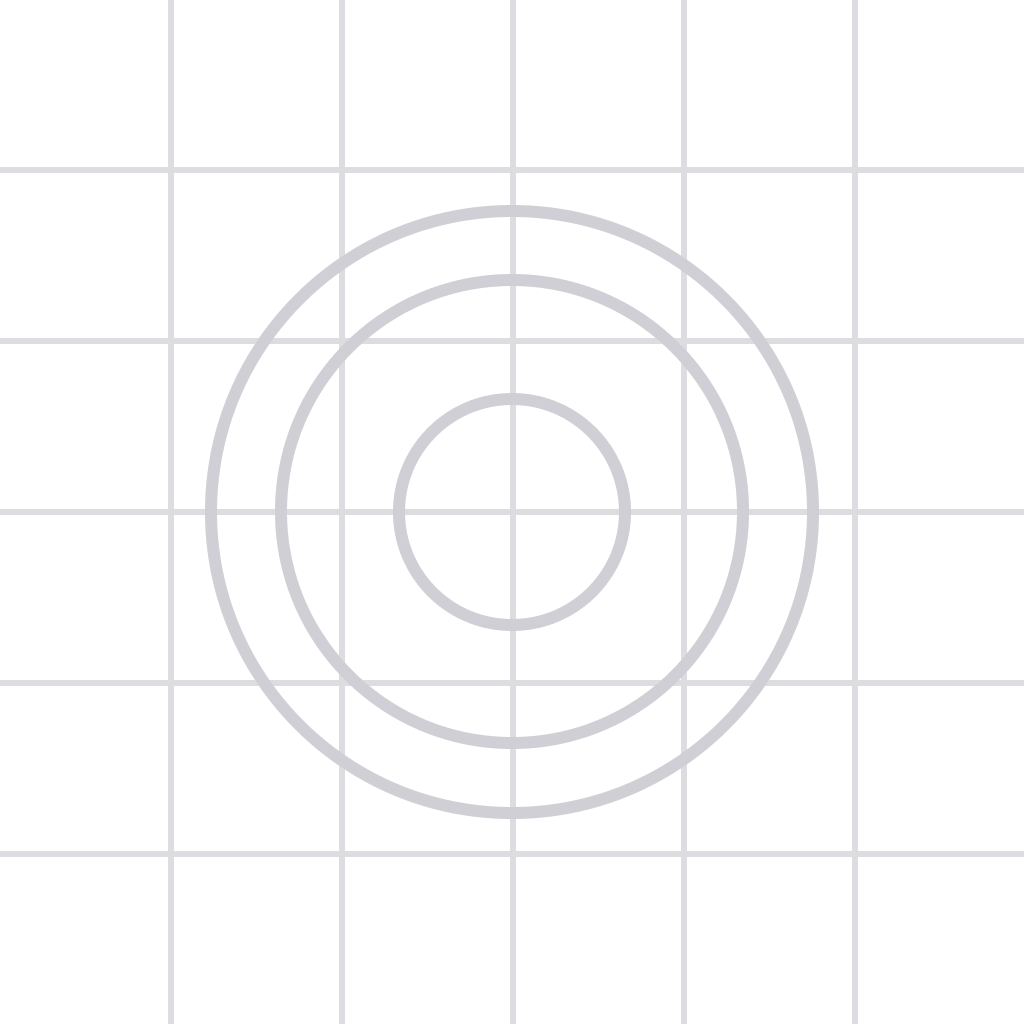
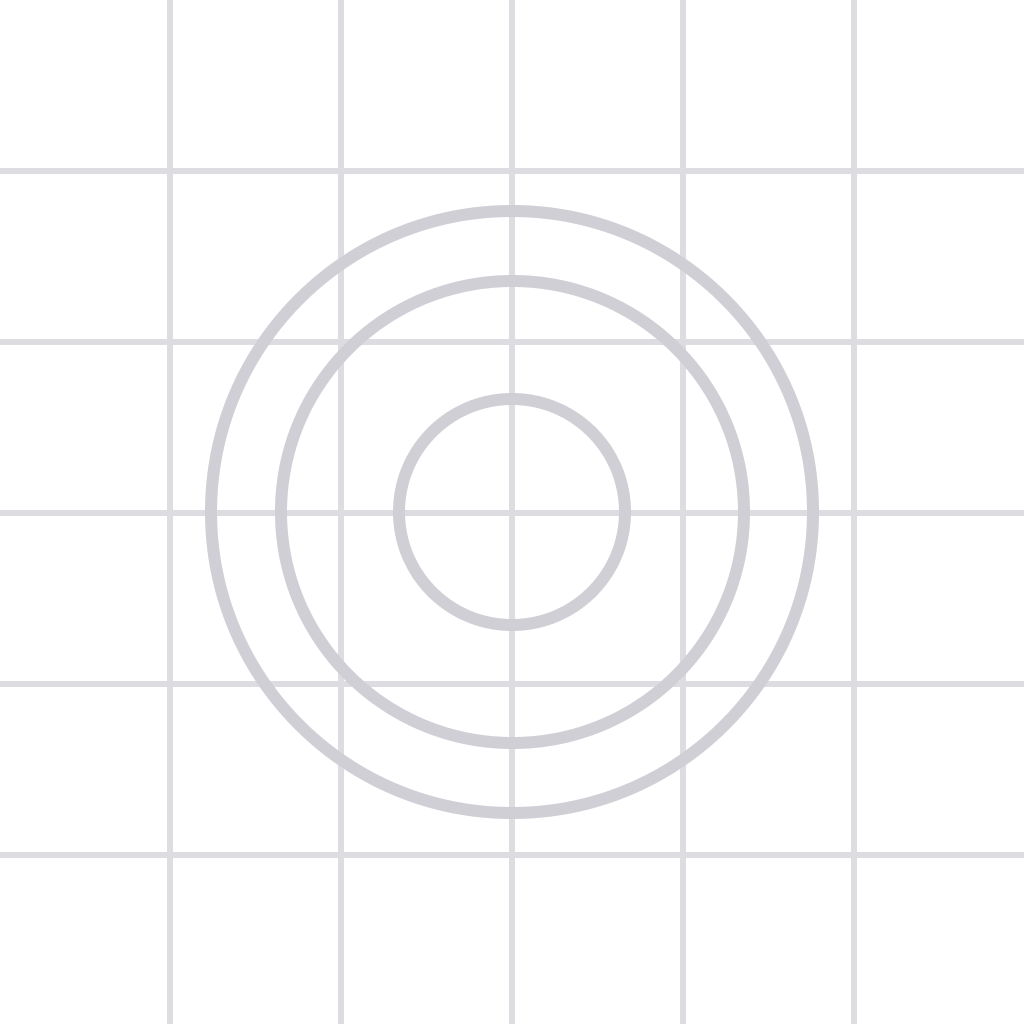
Исправление экрана приветствия и навигации, обновление иконок

diff --git a/android-project/src/context/DownloadContext.tsx b/android-project/src/context/DownloadContext.tsx
@@ -1,6 +1,9 @@
-import React, { createContext, useContext, useState, useRef, useCallback } from 'react';
-import { Animated } from 'react-native';
+import React, { createContext, useContext, useState, useEffect, useCallback, useRef } from 'react';
+import { NativeModules, NativeEventEmitter, Platform } from 'react-native';
 import RNFS from 'react-native-fs';
+
+const { DownloadModule } = NativeModules;
+const downloadEmitter = new NativeEventEmitter(DownloadModule);
 
 interface DownloadItem {
   name: string;
@@ -29,78 +32,59 @@ export const useDownload = () => useContext(DownloadContext);
 
 export function DownloadProvider({ children }: { children: React.ReactNode }) {
   const [activeDownload, setActiveDownload] = useState<DownloadItem | null>(null);
-  const jobRef = useRef<any>(null);
-  const isDownloadingRef = useRef(false);
+  const downloadInfoRef = useRef<{ name: string; url: string; path: string } | null>(null);
+
+  useEffect(() => {
+    const progressSub = downloadEmitter.addListener('onDownloadProgress', (event) => {
+      const pct = event.progress / 100;
+      setActiveDownload(prev => prev ? { ...prev, progress: pct } : null);
+    });
+
+    const completeSub = downloadEmitter.addListener('onDownloadComplete', () => {
+      setActiveDownload(prev => prev ? { ...prev, progress: 1, status: 'completed' } : null);
+      downloadInfoRef.current = null;
+      setTimeout(() => setActiveDownload(null), 2000);
+    });
+
+    const errorSub = downloadEmitter.addListener('onDownloadError', (event) => {
+      setActiveDownload(prev => prev ? { ...prev, status: 'error', error: event.error } : null);
+      downloadInfoRef.current = null;
+      setTimeout(() => setActiveDownload(null), 2000);
+    });
+
+    return () => {
+      progressSub.remove();
+      completeSub.remove();
+      errorSub.remove();
+    };
+  }, []);
 
   const cancelDownload = useCallback(() => {
-    if (jobRef.current) {
-      jobRef.current.stop();
-      jobRef.current = null;
-    }
-    isDownloadingRef.current = false;
+    DownloadModule?.cancelDownload();
     setActiveDownload(prev => prev ? { ...prev, status: 'cancelled' } : null);
+    downloadInfoRef.current = null;
     setTimeout(() => setActiveDownload(null), 500);
   }, []);
 
   const startDownload = useCallback(async (name: string, url: string, path: string) => {
-    if (isDownloadingRef.current) return;
+    if (downloadInfoRef.current) return;
 
+    // Ensure directory exists
     const dirPath = path.substring(0, path.lastIndexOf('/'));
-    const tmpPath = path + '.downloading.tmp';
     try {
       const dirExists = await RNFS.exists(dirPath);
       if (!dirExists) await RNFS.mkdir(dirPath);
-      const tmpExists = await RNFS.exists(tmpPath);
-      if (tmpExists) await RNFS.unlink(tmpPath);
     } catch {}
 
-    isDownloadingRef.current = true;
+    downloadInfoRef.current = { name, url, path };
     setActiveDownload({ name, url, path, progress: 0, status: 'downloading' });
 
-    try {
-      const downloadJob = RNFS.downloadFile({
-        fromUrl: url,
-        toFile: tmpPath,
-        progressDivider: 1,
-        progress: (res: any) => {
-          if (res.contentLength > 0) {
-            const pct = res.bytesWritten / res.contentLength;
-            setActiveDownload(prev => prev ? { ...prev, progress: pct } : null);
-          }
-        },
-      });
-
-      jobRef.current = downloadJob;
-      const result = await downloadJob.promise;
-
-      if (result.statusCode === 200) {
-        const tmpExists = await RNFS.exists(tmpPath);
-        if (tmpExists) {
-          const tmpStat = await RNFS.stat(tmpPath);
-          if (tmpStat.size > 1024) {
-            await RNFS.moveFile(tmpPath, path);
-          } else {
-            await RNFS.unlink(tmpPath);
-            throw new Error('Downloaded file too small - likely incomplete');
-          }
-        }
-        setActiveDownload(prev => prev ? { ...prev, progress: 1, status: 'completed' } : null);
-      } else {
-        try { await RNFS.unlink(tmpPath); } catch {}
-        setActiveDownload(prev => prev ? { ...prev, status: 'error', error: `HTTP ${result.statusCode}` } : null);
-      }
-    } catch (e: any) {
-      try { await RNFS.unlink(tmpPath); } catch {}
-      setActiveDownload(prev => prev ? { ...prev, status: 'error', error: e.message } : null);
-    } finally {
-      jobRef.current = null;
-      isDownloadingRef.current = false;
-      setTimeout(() => setActiveDownload(null), 2000);
-    }
+    // Start native foreground service (continues in background)
+    DownloadModule?.startDownload(url, path, name);
   }, []);
 
   return (
-    <DownloadContext.Provider value={{ activeDownload, startDownload, cancelDownload, isDownloading: isDownloadingRef.current }}>
+    <DownloadContext.Provider value={{ activeDownload, startDownload, cancelDownload, isDownloading: !!downloadInfoRef.current }}>
       {children}
     </DownloadContext.Provider>
   );

diff --git a/android-project/App.tsx b/android-project/App.tsx
@@ -163,17 +163,15 @@ function AppNavigator() {
   return (
     <NavigationContainer theme={isDark ? MyDarkTheme : MyLightTheme}>
       <StatusBar barStyle={isDark ? 'light-content' : 'dark-content'} backgroundColor={isDark ? '#0F0F0F' : '#F5F5F5'} />
-      <Stack.Navigator screenOptions={{ headerShown: false, contentStyle: { backgroundColor: isDark ? '#0F0F0F' : '#F5F5F5' } }}>
-        {!welcomeSeen ? (
-          <Stack.Screen name="Welcome" component={WelcomeScreen} />
-        ) : (
-          <>
-            <Stack.Screen name="MainTabs" component={MainTabs} />
-            <Stack.Screen name="Download" component={DownloadScreen} options={{ animation: 'slide_from_bottom' }} />
-            <Stack.Screen name="Chat" component={ChatScreen} options={{ animation: 'slide_from_right' }} />
-            <Stack.Screen name="Settings" component={SettingsScreen} options={{ animation: 'slide_from_right' }} />
-          </>
-        )}
+      <Stack.Navigator
+        initialRouteName={welcomeSeen ? 'MainTabs' : 'Welcome'}
+        screenOptions={{ headerShown: false, contentStyle: { backgroundColor: isDark ? '#0F0F0F' : '#F5F5F5' } }}
+      >
+        <Stack.Screen name="Welcome" component={WelcomeScreen} />
+        <Stack.Screen name="MainTabs" component={MainTabs} />
+        <Stack.Screen name="Download" component={DownloadScreen} options={{ animation: 'slide_from_bottom' }} />
+        <Stack.Screen name="Chat" component={ChatScreen} options={{ animation: 'slide_from_right' }} />
+        <Stack.Screen name="Settings" component={SettingsScreen} options={{ animation: 'slide_from_right' }} />
       </Stack.Navigator>
     </NavigationContainer>
   );

diff --git a/android-project/src/screens/WelcomeScreen.tsx b/android-project/src/screens/WelcomeScreen.tsx
@@ -35,11 +35,13 @@ export default function WelcomeScreen({ navigation }: WelcomeScreenProps) {
       flatListRef.current?.scrollToIndex({ index: currentPage + 1, animated: true });
     } else {
       setWelcomeSeen(true);
+      navigation.reset({ index: 0, routes: [{ name: 'MainTabs' }] });
     }
   };
 
   const handleSkip = () => {
     setWelcomeSeen(true);
+    navigation.reset({ index: 0, routes: [{ name: 'MainTabs' }] });
   };
 
   const renderItem = ({ item, index }: { item: any; index: number }) => {